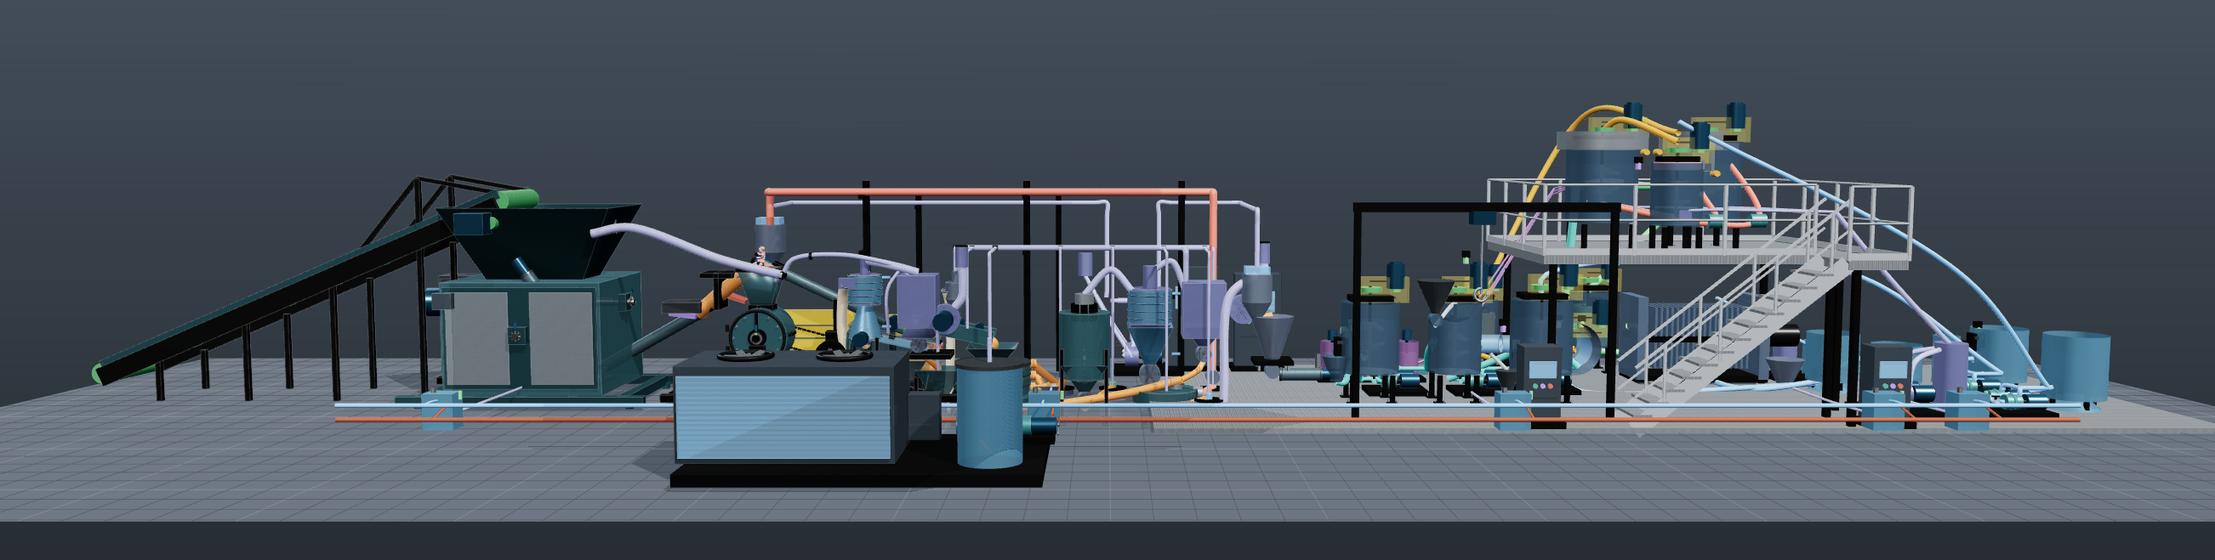
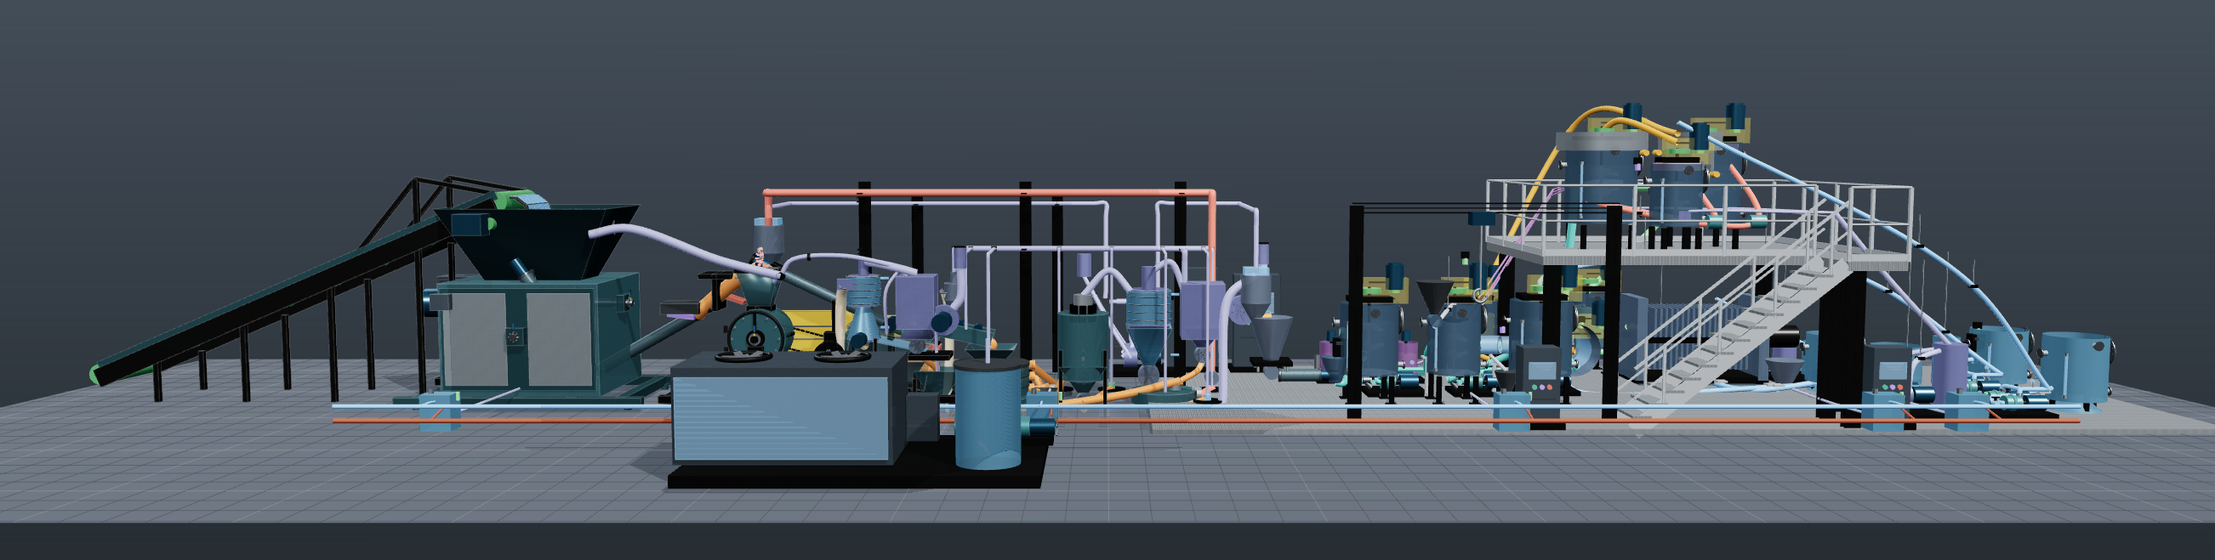
습식부 2순위 — 배관 지지·탱크 노즐·펌프 부속·H형강·라우더 월류
1순위(난간·계단·라우더 형상)에 이어, BOM·설계문서에는 규정돼 있는데 3D 형상이
없던 나머지를 채운다. 다섯 건 모두 헬퍼 한 곳을 고쳐 호출부 전체에 적용된다.

배관 지지 — 설계문서는 "방진 행거로 25/100 Hz 차단, 지지 간격을 배관 고유진동수로"
라고 규정하는데 3D 에 지지물이 0건이라 배관이 공중을 지나갔다. wetTube 가 만든
curve 를 모아 두었다가 한 번에 배치한다. 1.2 m 간격으로 훑되 수직 구간(|접선.y| >
0.72)은 건너뛴다 — 수직관은 행거가 아니라 가이드로 잡는 것이고, 이 필터가 없으면
수직관 옆에 위로 뻗은 행거 로드가 붙는다. 통행 높이(0.8 m) 위는 상부 티어에
매달고 아래는 바닥 스탠션으로 받는다. 탱크 발자국 안은 제외. 33개소.

탱크 부속 — 민무늬 원통이라 배관이 동체에 그냥 꽂혔다. wetVesselFittings() 로
맨홀(커버·볼트링), 노즐 4방위(급액·토출·오버플로·드레인, 스텁+플랜지),
레벨게이지 사이트글라스와 상하 차단밸브, 명판을 붙였다. 반경 방향으로 눕히는
회전은 난간과 같은 유도다 — Z로 −90° 눕혀 +X 로 만든 뒤 Y로 −a.

펌프 부속 — Y형 스트레이너·드레인포켓, 플렉시블 조인트, 체크밸브(A/B 병렬이라
역류방지 필수), 흡입·토출 압력계. 기존에는 차단밸브만 있었다.

구조재 — BOM FC-001 은 "H250/H200 조합"인데 기둥·랙·보가 전부 정사각 각기둥이라
"막대기"로 읽혔다. wetHBeam() 으로 웨브+플랜지 2판 단면을 만들어 22본을 교체했다.

라우더 월류 — 형상은 1순위에서 세웠지만 입자는 여전히 frothY 에서 사라졌다.
주석은 "라우더로 월류한다"는데 반경이 0.92R 에서 멈춰 위어를 못 넘고 있었다.
상승 → 위어 월류 → 트로프 주행 3구간으로 나누고, 부분 라우더(FC-202 90° /
FC-203 180°)는 넘는 지점을 호 안으로 사상해 라우더 밖으로 나가지 않게 했다.
360° 는 토출까지 가까운 쪽으로 돈다.

검증
- 구문 6블록, 네트워크 차단 로드, 표시 모드 5종 전환 모두 오류 0
- 월류 궤적 실측: 트로프 구간 입자 반경이 FC-201/203 0.660(셀 R 0.58),
  FC-202 0.480(R 0.40) — 위어 못넘음 0건, 호 이탈 0건, y 는 트로프 바닥
- 물리 회귀: 난수 호출부 random() 37 · visualRandom() 17 로 변동 없고 d95 0.438
  동일 — 시드 DEM 난수열이 밀리지 않았다
- 습식 메시 1168 → 1502

Claude-Session: https://claude.ai/code/session_01VqrMdsqG9TwrYpTzJuKaK7

Changed region(s): [[0.0311, 0.1821, 0.9954, 0.8801], [0.1866, 0.3035, 0.28, 0.3945]]

diff --git a/docs/drawings/pv-recycling-miniapp.html b/docs/drawings/pv-recycling-miniapp.html
@@ -17334,6 +17334,8 @@ window.__HSG_CANNON__=Object.freeze({"AABB":AABB,"ArrayCollisionMatrix":ArrayCol
     const wetRotors = [];
     const wetBubbles = [];
     const wetFlowMarkers = [];
+    const wetPipeRuns = [];          // 지지물을 한 번에 놓으려고 배관 curve 를 모은다
+    const wetVesselFootprints = [];  // 동체 안에 지지물이 생기지 않게 피할 발자국
     const wetBodyMaterial = material.equipmentWetBody.clone();
     wetBodyMaterial.transparent = true;
     wetBodyMaterial.opacity = 0.82;
@@ -17470,6 +17472,44 @@ window.__HSG_CANNON__=Object.freeze({"AABB":AABB,"ArrayCollisionMatrix":ArrayCol
       return { risers, rise, run, slopeDeg: slope * 180 / Math.PI };
     }
 
+    // ---- 배관 지지 ---------------------------------------------------------
+    // 설계문서는 「방진 행거로 25 Hz·100 Hz 전달 차단 · 지지 간격을 배관 고유진동수로」
+    // 라고 규정하는데 3D 에는 지지물이 하나도 없어 배관이 공중을 지나갔다.
+    // 통행 높이 위는 상부 구조에 매달고, 아래는 바닥에서 받친다.
+    const PIPE_SUPPORT_SPAN = 1.2;     // 지지 간격 — DN50~100 슬러리 라인 기준.
+                                       // 수직 구간은 걸러내므로 촘촘히 훑어야 수평부가 잡힌다.
+    const PIPE_SUPPORT_MIN_RUN = 1.0;  // 이보다 짧은 지관은 양단 노즐이 곧 지지다
+    const PIPE_HANGER_MIN_Y = 0.80;    // 이 위는 행거, 아래는 스탠션
+    function wetPipeHanger(tag, x, y, z, topY, radius) {
+      const rod = Math.max(0.12, topY - y - radius);
+      wetCylinder(unifiedWet, 0.010, rod, [x, y + radius + rod / 2, z], material.silverClamp, `${tag} 행거 로드`, 8);
+      wetBox(unifiedWet, [radius * 2.6, 0.05, radius * 2.6], [x, y, z], material.fixed, `${tag} 방진 행거 클램프`);
+    }
+    // ---- H형강 단면 --------------------------------------------------------
+    // BOM FC-001 은 「H250/H200 조합」인데 기둥·랙·보가 전부 정사각 각기둥이라
+    // 구조물이 「막대기」로 읽혔다. 웨브 1판 + 플랜지 2판으로 H 단면을 만든다.
+    // axis 는 부재가 뻗는 방향("y" 기둥 / "x"·"z" 보), h 는 성(춤), b 는 플랜지 폭.
+    function wetHBeam(parent, name, position, length, axis, h = 0.25, b = 0.125) {
+      const web = 0.012, flange = 0.018;
+      const [px, py, pz] = position;
+      if (axis === "y") {
+        wetBox(parent, [web, length, b], [px, py, pz], material.frame, `${name} 웨브`);
+        for (const d of [-1, 1]) wetBox(parent, [h, length, flange], [px, py, pz + d * (b / 2 - flange / 2)], material.frame, `${name} 플랜지`);
+      } else if (axis === "x") {
+        wetBox(parent, [length, web, b], [px, py, pz], material.frame, `${name} 웨브`);
+        for (const d of [-1, 1]) wetBox(parent, [length, flange, b], [px, py + d * (h / 2 - flange / 2), pz], material.frame, `${name} 플랜지`);
+      } else {
+        wetBox(parent, [b, web, length], [px, py, pz], material.frame, `${name} 웨브`);
+        for (const d of [-1, 1]) wetBox(parent, [b, flange, length], [px, py + d * (h / 2 - flange / 2), pz], material.frame, `${name} 플랜지`);
+      }
+    }
+
+    function wetPipeStanchion(tag, x, y, z, radius) {
+      const post = Math.max(0.10, y - radius);
+      wetBox(unifiedWet, [0.06, post, 0.06], [x, post / 2, z], hdgMaterial, `${tag} 배관 스탠션`);
+      wetBox(unifiedWet, [0.18, 0.035, 0.18], [x, post + 0.017, z], hdgMaterial, `${tag} 스탠션 새들`);
+    }
+
     function wetMesh(parent, geometry, sourceMaterial, position, name, rotation = null) {
       const mesh = new THREE.Mesh(geometry, sourceMaterial);
       mesh.position.set(position[0], position[1], position[2]);
@@ -17492,6 +17532,7 @@ window.__HSG_CANNON__=Object.freeze({"AABB":AABB,"ArrayCollisionMatrix":ArrayCol
     function wetTube(parent, points, radius, sourceMaterial, name, activation = 0, markerCount = 0) {
       const curve = new THREE.CatmullRomCurve3(points.map((point) => new THREE.Vector3(point[0], point[1], point[2])), false, "centripetal", 0.18);
       wetMesh(parent, new THREE.TubeGeometry(curve, Math.max(28, points.length * 16), radius, 12, false), sourceMaterial, [0, 0, 0], name);
+      wetPipeRuns.push({ curve, radius, name });
       for (let index = 0; index < markerCount; index += 1) {
         const marker = wetMesh(parent, new THREE.SphereGeometry(radius * 0.44, 9, 7), sourceMaterial.clone(), [0, 0, 0], `${name} 유동 parcel ${index + 1}`);
         marker.material.transparent = false;
@@ -17521,6 +17562,42 @@ window.__HSG_CANNON__=Object.freeze({"AABB":AABB,"ArrayCollisionMatrix":ArrayCol
       wetBox(parent, [Math.abs(motorX - shaftX) + 0.42, 0.42, 0.20], [(motorX + shaftX) / 2, y, z], wetGuardMaterial, `${tag} V벨트 메쉬 안전커버`);
       wetRotors.push({ activation, rpm, parts: [motor, motorFan, drivenPulley, motorPulley], axis: "y" });
     }
+
+    // ---- 용기 부속(맨홀·노즐·레벨게이지·명판) ------------------------------
+    // 탱크가 민무늬 원통이라 배관이 동체에 그냥 꽂혔다. 실제 용기는 노즐 플랜지로
+    // 받고, 사람이 들어갈 맨홀과 액위를 눈으로 보는 게이지가 붙는다.
+    // 반경 방향으로 눕히는 회전은 난간과 같은 유도다 — Z로 −90° 눕혀 +X 로 만든 뒤
+    // Y로 −a 만큼 돌린다(three 의 XYZ 오일러는 RX·RY·RZ 순서).
+    function wetRadial(group, tag, x, z, r, a, y, radius, len, sourceMaterial, name) {
+      return wetCylinder(group, radius, len, [x + Math.cos(a) * r, y, z + Math.sin(a) * r],
+        sourceMaterial, `${tag} ${name}`, 20, [0, -a, -Math.PI / 2]);
+    }
+    function wetVesselFittings(group, tag, x, z, radius, height, base = 0.50) {
+      // 맨홀 — 상부 동체, 통로 쪽(+x)
+      wetRadial(group, tag, x, z, radius + 0.03, 0, base + height * 0.76, 0.20, 0.05, material.cover, "맨홀 커버");
+      wetRadial(group, tag, x, z, radius + 0.01, 0, base + height * 0.76, 0.24, 0.02, material.silverClamp, "맨홀 볼트링");
+      // 노즐 4방위 — 스텁 + 플랜지 디스크
+      const nozzles = [
+        [Math.PI, height * 0.72, "급액 노즐"],
+        [0, height * 0.12, "토출 노즐"],
+        [Math.PI / 2, height * 0.90, "오버플로 노즐"],
+        [-Math.PI / 2, 0.04, "드레인 노즐"]
+      ];
+      for (const [a, dy, name] of nozzles) {
+        wetRadial(group, tag, x, z, radius + 0.05, a, base + dy, 0.045, 0.10, material.cover, name);
+        wetRadial(group, tag, x, z, radius + 0.10, a, base + dy, 0.075, 0.02, material.silverClamp, `${name} 플랜지`);
+      }
+      // 레벨 게이지 — 동체 옆 수직 사이트글라스와 상하 차단밸브
+      const g = Math.PI * 0.75, gx = x + Math.cos(g) * (radius + 0.09), gz = z + Math.sin(g) * (radius + 0.09);
+      wetCylinder(group, 0.022, height * 0.66, [gx, base + height * 0.42, gz], wetWaterMaterial, `${tag} 레벨게이지 사이트글라스`, 12);
+      for (const dy of [height * 0.09, height * 0.75]) {
+        wetCylinder(group, 0.032, 0.05, [gx, base + dy, gz], material.silverClamp, `${tag} 레벨게이지 차단밸브`, 12);
+      }
+      // 명판
+      wetBox(group, [0.02, 0.10, 0.16], [x + Math.cos(Math.PI * 1.25) * (radius + 0.02), base + height * 0.55, z + Math.sin(Math.PI * 1.25) * (radius + 0.02)],
+        material.silverClamp, `${tag} 명판`, [0, -Math.PI * 1.25, 0]);
+    }
+
     function wetTank(tag, x, z, radius, height, activation, options = {}) {
       const group = new THREE.Group();
       group.name = tag;
@@ -17550,7 +17627,9 @@ window.__HSG_CANNON__=Object.freeze({"AABB":AABB,"ArrayCollisionMatrix":ArrayCol
       wetRotors.push({ activation, rpm: options.impellerRpm ?? (options.attrition ? DRIVE_RPM.attritionRotor : DRIVE_RPM.tankAgitator), parts: [rotor], axis: "y" });
       wetBox(group, [radius * 1.45, 0.09, radius * 0.90], [x, 0.56 + height, z], material.frame, `${tag} 구동 브리지`);
       wetDrive(group, tag, x, x + radius * 0.86, 0.70 + height, z, activation, options.attrition ? 5.2 : 2.2);
+      wetVesselFittings(group, tag, x, z, radius, height, 0.50);
       const label = wetLabel(`${tag} · ${options.label || "교반조"}`, [x, 1.12 + height, z]);
+      wetVesselFootprints.push({ x, z, radius: radius + 0.12 });
       return { group, label, x, z, radius, height };
     }
     function flotationCell(tag, x, z, radius, height, activation, airRate, impellerRpm, launder) {
@@ -17570,6 +17649,8 @@ window.__HSG_CANNON__=Object.freeze({"AABB":AABB,"ArrayCollisionMatrix":ArrayCol
           material.cover, [x, rim + 0.02, z], `${tag} 라우더 외벽`);
         wetCylinder(cell.group, 0.05, 0.18, [x + Math.sin(outlet) * (outer + 0.06), rim - 0.17, z + Math.cos(outlet) * (outer + 0.06)],
           material.pipeConcentrate, `${tag} 정광 토출노즐`, 18, [Math.PI / 2, 0, 0]);
+        // 입자 궤적이 위어를 넘어 트로프를 타고 토출노즐까지 가려면 이 값들이 필요하다.
+        cell.launder = { arc, from, outlet, mid: (inner + outer) / 2, floorY: rim - 0.09 };
       }
       for (let index = 0; index < 20; index += 1) {
         const bubble = wetMesh(cell.group, new THREE.SphereGeometry(0.026 + (index % 4) * 0.004, 9, 7), wetFrothMaterial.clone(), [x, 0.62, z], `${tag} 부선기포 ${index + 1}`);
@@ -17620,6 +17701,18 @@ window.__HSG_CANNON__=Object.freeze({"AABB":AABB,"ArrayCollisionMatrix":ArrayCol
       wetTube(group, [dischargeTee, [x + 0.55, 0.42, z]], 0.035, streamMaterial, `${tag} 공통 토출헤더`);
       wetValve(`${tag}-XV-A`, [x - 0.40, 0.24, z - 0.22], streamMaterial, 0.72);
       wetValve(`${tag}-XV-B`, [x - 0.40, 0.24, z + 0.22], streamMaterial, 0.72);
+      // 표준 슬러리 펌프 스키드에서 빠져 있던 부속. 병렬 A/B 라 토출 역류방지가 필수고,
+      // 흡입에는 스트레이너와 진동 절연용 플렉시블이 들어간다.
+      wetCylinder(group, 0.055, 0.16, [x - 0.46, 0.24, z], material.silverClamp, `${tag} Y형 스트레이너`, 18, [0, 0, Math.PI / 2]);
+      wetCylinder(group, 0.038, 0.13, [x - 0.44, 0.15, z], material.silverClamp, `${tag} 스트레이너 드레인포켓`, 14, [0, 0, Math.PI / 4]);
+      for (const [suffix, dz] of [["A", -0.22], ["B", 0.22]]) {
+        wetCylinder(group, 0.050, 0.11, [x - 0.19, 0.24, z + dz], material.fixed, `${tag}${suffix} 플렉시블 조인트`, 14, [0, 0, Math.PI / 2]);
+        wetCylinder(group, 0.048, 0.10, [x - 0.03, 0.34, z + dz], material.silverClamp, `${tag}${suffix} 체크밸브`, 16);
+      }
+      for (const [name, px, py] of [["흡입 압력계", x - 0.52, 0.36], ["토출 압력계", x + 0.30, 0.54]]) {
+        wetCylinder(group, 0.010, 0.08, [px, py - 0.05, z], material.silverClamp, `${tag} ${name} 스템`, 8);
+        wetCylinder(group, 0.036, 0.016, [px, py, z], material.screen, `${tag} ${name}`, 18, [Math.PI / 2, 0, 0]);
+      }
       wetLabel(`${tag} · ${label}`, [x, 0.72, z], [1.35, 0.20, 1]);
       return { group, suction: [x - 0.55, 0.24, z], discharge: [x + 0.55, 0.42, z] };
     }
@@ -17634,7 +17727,9 @@ window.__HSG_CANNON__=Object.freeze({"AABB":AABB,"ArrayCollisionMatrix":ArrayCol
       for (const angle of [0, Math.PI / 2, Math.PI, Math.PI * 1.5]) {
         wetBox(group, [0.06, 0.38, 0.06], [x + Math.cos(angle) * radius * 0.72, 0.18, z + Math.sin(angle) * radius * 0.72], material.frame, `${tag} 지지다리`);
       }
+      wetVesselFittings(group, tag, x, z, radius, height, 0.18);
       wetLabel(`${tag} · ${label}`, [x, 0.72 + height, z], [1.35, 0.20, 1]);
+      wetVesselFootprints.push({ x, z, radius: radius + 0.12 });
       return { group, x, z, radius, height };
     }
 
@@ -17681,17 +17776,17 @@ window.__HSG_CANNON__=Object.freeze({"AABB":AABB,"ArrayCollisionMatrix":ArrayCol
     // 세우고 두 티어(VENT_HEADER_Y, DRY_RETURN_Y)에 캔틸레버 암을 내밀어 받친다.
     const RACK_COLUMN_Z = -0.94;
     [0.90, 3.70, 6.40].forEach((x) => {
-      wetBox(unifiedWet, [0.11, DRY_RETURN_Y + 0.18, 0.11], [x, (DRY_RETURN_Y + 0.18) / 2, RACK_COLUMN_Z], material.frame, "파이프 랙 기둥");
+      wetHBeam(unifiedWet, "파이프 랙 기둥 H200", [x, (DRY_RETURN_Y + 0.18) / 2, RACK_COLUMN_Z], DRY_RETURN_Y + 0.18, "y", 0.20, 0.10);
       [VENT_HEADER_Y, DRY_RETURN_Y].forEach((y) => {
-        wetBox(unifiedWet, [0.09, 0.07, Math.abs(RACK_COLUMN_Z - RACK_Z) + 0.22],
-          [x, y - 0.08, (RACK_COLUMN_Z + RACK_Z) / 2 + 0.05], material.frame, "파이프 랙 암");
+        wetHBeam(unifiedWet, "파이프 랙 암 H200", [x, y - 0.08, (RACK_COLUMN_Z + RACK_Z) / 2 + 0.05],
+          Math.abs(RACK_COLUMN_Z - RACK_Z) + 0.22, "z", 0.16, 0.09);
       });
 
     });
     // VP-401 지관 랙 — 두 진공 지관이 함께 내려오는 z = -2.46 라인.
     [1.60, 4.20].forEach((x) => {
-      wetBox(unifiedWet, [0.10, 3.30, 0.10], [x, 1.65, -2.62], material.frame, "VP-401 지관 랙 기둥");
-      wetBox(unifiedWet, [0.08, 0.06, 0.36], [x, 3.08, -2.52], material.frame, "VP-401 지관 랙 암");
+      wetHBeam(unifiedWet, "VP-401 지관 랙 기둥 H200", [x, 1.65, -2.62], 3.30, "y", 0.20, 0.10);
+      wetHBeam(unifiedWet, "VP-401 지관 랙 암 H200", [x, 3.08, -2.52], 0.36, "z", 0.14, 0.08);
     });
 
     // SS-201 ≥75 µm is no longer a dead-end receiver.  A sealed vacuum return
@@ -17813,7 +17908,7 @@ window.__HSG_CANNON__=Object.freeze({"AABB":AABB,"ArrayCollisionMatrix":ArrayCol
 
     // Two-level flotation deck: FC-202 is cleaner and FC-203 is scavenger.
     wetBox(unifiedWet, [5.10, 0.14, 3.45], [14.46, 2.44, 0.18], gratingMaterial(5.10, 3.45), "ST-201 2층 부유선별 그레이팅");
-    for (const x of [12.18, 16.72]) for (const z of [-1.20, 1.50]) wetBox(unifiedWet, [0.10, 2.48, 0.10], [x, 1.20, z], material.frame, "ST-201 2층 지지기둥");
+    for (const x of [12.18, 16.72]) for (const z of [-1.20, 1.50]) wetHBeam(unifiedWet, "ST-201 2층 지지기둥 H250", [x, 1.20, z], 2.48, "y", 0.25, 0.125);
     // ---- ST-201 2층 접근계단·난간 (FC-003) --------------------------------
     // 종전 계단은 발판이 x로 0.12씩만 전진하면서 길이가 0.62라 서로 겹쳤고, 경사 66.8°로
     // 사양(≤45°)을 넘었으며, 최상단 y=2.14 가 데크 상면 2.51 에 0.37 m 못 미친 데다
@@ -17830,7 +17925,7 @@ window.__HSG_CANNON__=Object.freeze({"AABB":AABB,"ArrayCollisionMatrix":ArrayCol
     const LAND_X0 = STAIR_X0 + stair.run, LAND_X1 = DECK_X1, LAND_Z1 = 3.00;
     wetBox(unifiedWet, [LAND_X1 - LAND_X0, 0.14, LAND_Z1 - 1.85], [(LAND_X0 + LAND_X1) / 2, 2.44, (1.85 + LAND_Z1) / 2],
       gratingMaterial(LAND_X1 - LAND_X0, LAND_Z1 - 1.85), "ST-201 계단 랜딩");
-    for (const lz of [2.10, 2.88]) wetBox(unifiedWet, [0.10, 2.44, 0.10], [16.30, 1.22, lz], material.frame, "ST-201 랜딩 지지기둥");
+    for (const lz of [2.10, 2.88]) wetHBeam(unifiedWet, "ST-201 랜딩 지지기둥 H250", [16.30, 1.22, lz], 2.44, "y", 0.25, 0.125);
     // 데크 둘레 난간 — 랜딩이 붙는 북동쪽(x 16.12…17.01)만 비운다.
     wetRailing(unifiedWet, "ST-201 남측", DECK_X0, DECK_Z0, DECK_X1, DECK_Z0, DECK_TOP_Y);
     wetRailing(unifiedWet, "ST-201 동측", DECK_X1, DECK_Z0, DECK_X1, DECK_Z1, DECK_TOP_Y);
@@ -17971,8 +18066,8 @@ window.__HSG_CANNON__=Object.freeze({"AABB":AABB,"ArrayCollisionMatrix":ArrayCol
 
     // Maintenance monorail above TK-001/AS-101/TK-101 and physical integrated
     // process-control cabinets.  No DHA/Ex/LOTO/H2 safety package is modeled.
-    for (const x of [8.92, 12.84]) wetBox(unifiedWet, [0.10, 3.35, 0.10], [x, 1.64, 2.38], material.frame, "MH-401 정비호이스트 지주");
-    wetBox(unifiedWet, [4.04, 0.14, 0.16], [10.88, 3.28, 2.38], material.frame, "MH-401 모노레일");
+    for (const x of [8.92, 12.84]) wetHBeam(unifiedWet, "MH-401 정비호이스트 지주 H200", [x, 1.64, 2.38], 3.35, "y", 0.20, 0.10);
+    wetHBeam(unifiedWet, "MH-401 모노레일 I형", [10.88, 3.28, 2.38], 4.04, "x", 0.16, 0.11);
     wetBox(unifiedWet, [0.34, 0.20, 0.30], [10.82, 3.12, 2.38], wetMotorMaterial, "MH-401 전동 트롤리");
     wetCylinder(unifiedWet, 0.018, 1.10, [10.82, 2.50, 2.38], material.silverClamp, "MH-401 체인블록", 12);
     wetMesh(unifiedWet, new THREE.TorusGeometry(0.10, 0.025, 8, 18, Math.PI * 1.5), material.silverClamp, [10.82, 1.94, 2.38], "MH-401 훅", [0, 0, Math.PI / 2]);
@@ -17982,6 +18077,38 @@ window.__HSG_CANNON__=Object.freeze({"AABB":AABB,"ArrayCollisionMatrix":ArrayCol
     wetControlPanel("RIO-402", 16.82, 2.82, 0.56, 1.12, "부선·탈수 현장 I/O");
 
     wetLabel("완전 통합공정 · 건식 환류 → 정량 습식인계 → 어트리션 → 부선 → 탈수 → 공정수 회수", [13.70, 5.36, 0.12], [3.05, 0.29, 1]);
+
+    // 습식 배관을 다 놓은 뒤 지지물을 한 번에 배치한다. 배관마다 손으로 다는 대신
+    // 모아 둔 curve 를 2.4 m 간격으로 샘플해, 위에 걸 티어가 있으면 행거를,
+    // 없거나 통행 높이 아래면 바닥 스탠션을 놓는다. 탱크 동체 안은 건너뛴다.
+    const wetSupportTiers = [VENT_HEADER_Y, DECK_TOP_Y, VAC_RACK_Y, DRY_RETURN_Y].sort((a, b) => a - b);
+    let wetSupportCount = 0;
+    {
+      const point = new THREE.Vector3(), tangent = new THREE.Vector3();
+      for (const run of wetPipeRuns) {
+        const length = run.curve.getLength();
+        if (length < PIPE_SUPPORT_MIN_RUN) continue;
+        // 지지점을 런 안쪽에 고르게 나눈다 — 짧은 지관도 최소 한 점은 받는다.
+        const spans = Math.max(1, Math.round(length / PIPE_SUPPORT_SPAN));
+        for (let i = 1; i <= spans; i += 1) {
+          const t = i / (spans + 1);
+          run.curve.getPointAt(t, point);
+          // 수직 구간은 행거로 매다는 곳이 아니다 — 실제로는 가이드·앵커로 잡는다.
+          // 수평에 가까운 구간에만 지지물을 놓는다.
+          run.curve.getTangentAt(t, tangent);
+          if (Math.abs(tangent.y) > 0.72) continue;   // 약 46° 보다 가파르면 수직 취급
+          if (wetVesselFootprints.some((v) => Math.hypot(point.x - v.x, point.z - v.z) < v.radius)) continue;
+          if (point.y >= PIPE_HANGER_MIN_Y) {
+            const tier = wetSupportTiers.find((t) => t > point.y + 0.26);
+            if (tier === undefined) continue;      // 위에 매달 구조가 없으면 놓지 않는다
+            wetPipeHanger(run.name, point.x, point.y, point.z, tier, run.radius);
+          } else {
+            wetPipeStanchion(run.name, point.x, point.y, point.z, run.radius);
+          }
+          wetSupportCount += 1;
+        }
+      }
+    }
 
 
     // ── 냉각수 계통 CW-601 ────────────────────────────────────────────────
@@ -19258,8 +19385,45 @@ window.__HSG_CANNON__=Object.freeze({"AABB":AABB,"ArrayCollisionMatrix":ArrayCol
         const { cell } = item.entry;
         const radius = cell.radius * item.band;
         const angle = item.swirl + q * Math.PI * 6;
-        if (item.floats) {
-          // 기포에 붙어 곧장 거품층으로 올라간 뒤 라우더로 월류한다.
+        if (item.floats && cell.launder) {
+          // 기포에 붙어 거품층으로 올라간 뒤 위어를 넘어 라우더로 월류하고,
+          // 트로프를 타고 정광 토출노즐까지 흘러간다. 종전에는 반경 0.92R 에서
+          // 그냥 사라져 위어를 넘지 못했다 — 주석만 월류였고 경로가 없었다.
+          const lau = cell.launder;
+          const RISE_END = 0.62, WEIR_END = 0.74;
+          // 입자 각도는 (cos,sin), 라우더는 실린더 θ 규약 (sin,cos) 이라 θ = π/2 − angle.
+          let theta = Math.PI / 2 - angle;
+          if (lau.arc < Math.PI * 2 - 1e-3) {
+            // 부분 라우더는 거품이 라우더가 있는 호로만 넘는다 — 호 안으로 사상한다.
+            const span = ((theta - lau.from) % (Math.PI * 2) + Math.PI * 2) % (Math.PI * 2);
+            theta = lau.from + (span / (Math.PI * 2)) * lau.arc;
+          }
+          const weirX = cell.x + Math.sin(theta) * lau.mid, weirZ = cell.z + Math.cos(theta) * lau.mid;
+          if (q < RISE_END) {
+            const rise = q / RISE_END;
+            const r = radius * (1 - 0.25 * rise);
+            item.mesh.position.set(cell.x + Math.cos(angle) * r, THREE.MathUtils.lerp(item.bottom, item.frothY, rise), cell.z + Math.sin(angle) * r);
+            item.mesh.material.opacity = 1;
+          } else if (q < WEIR_END) {
+            const u = (q - RISE_END) / (WEIR_END - RISE_END);
+            const r0 = radius * 0.75;
+            item.mesh.position.set(
+              THREE.MathUtils.lerp(cell.x + Math.cos(angle) * r0, weirX, u),
+              THREE.MathUtils.lerp(item.frothY, lau.floorY, u),
+              THREE.MathUtils.lerp(cell.z + Math.sin(angle) * r0, weirZ, u)
+            );
+            item.mesh.material.opacity = 1;
+          } else {
+            const v = (q - WEIR_END) / (1 - WEIR_END);
+            let delta = lau.outlet - theta;
+            if (lau.arc >= Math.PI * 2 - 1e-3) {           // 360° 는 가까운 쪽으로 돈다
+              delta = ((delta + Math.PI) % (Math.PI * 2) + Math.PI * 2) % (Math.PI * 2) - Math.PI;
+            }
+            const t = theta + delta * v;
+            item.mesh.position.set(cell.x + Math.sin(t) * lau.mid, lau.floorY, cell.z + Math.cos(t) * lau.mid);
+            item.mesh.material.opacity = v > 0.82 ? Math.max(0, (1 - v) / 0.18) : 1;
+          }
+        } else if (item.floats) {
           const rise = Math.min(1, q / 0.66);
           const r = radius * (1 - 0.25 * rise) + (q > 0.66 ? cell.radius * 0.92 * (q - 0.66) / 0.34 : 0);
           item.mesh.position.set(

diff --git a/docs/drawings/renders/README.md b/docs/drawings/renders/README.md
@@ -15,8 +15,9 @@
 보다 밝고 중간톤 장비가 그 위에서 읽힌다.
 
 습식부에는 ST-201 2층 데크 난간(H1,100·중간대·토보드 100)과 접근계단(유효폭 800·경사 38.8°),
-부유선별 셀 라우더(FC-011 360° / FC-021 single lip / FC-031 180°)가 서 있다. BOM 에는 있는데
-3D 형상이 없던 것을 채운 것이라, 이 그림은 BOM 과 형상이 일치하는 상태를 보여 준다.
+부유선별 셀 라우더(FC-011 360° / FC-021 single lip / FC-031 180°), 탱크 맨홀·노즐·레벨게이지,
+배관 행거·스탠션 33개소, H형강 기둥(H250/H200), 펌프 스트레이너·체크밸브가 서 있다.
+BOM 에는 있는데 3D 형상이 없던 것을 채운 것이라, 이 그림은 BOM 과 형상이 일치하는 상태를 보여 준다.
 
 ## 촬영 기준
 
